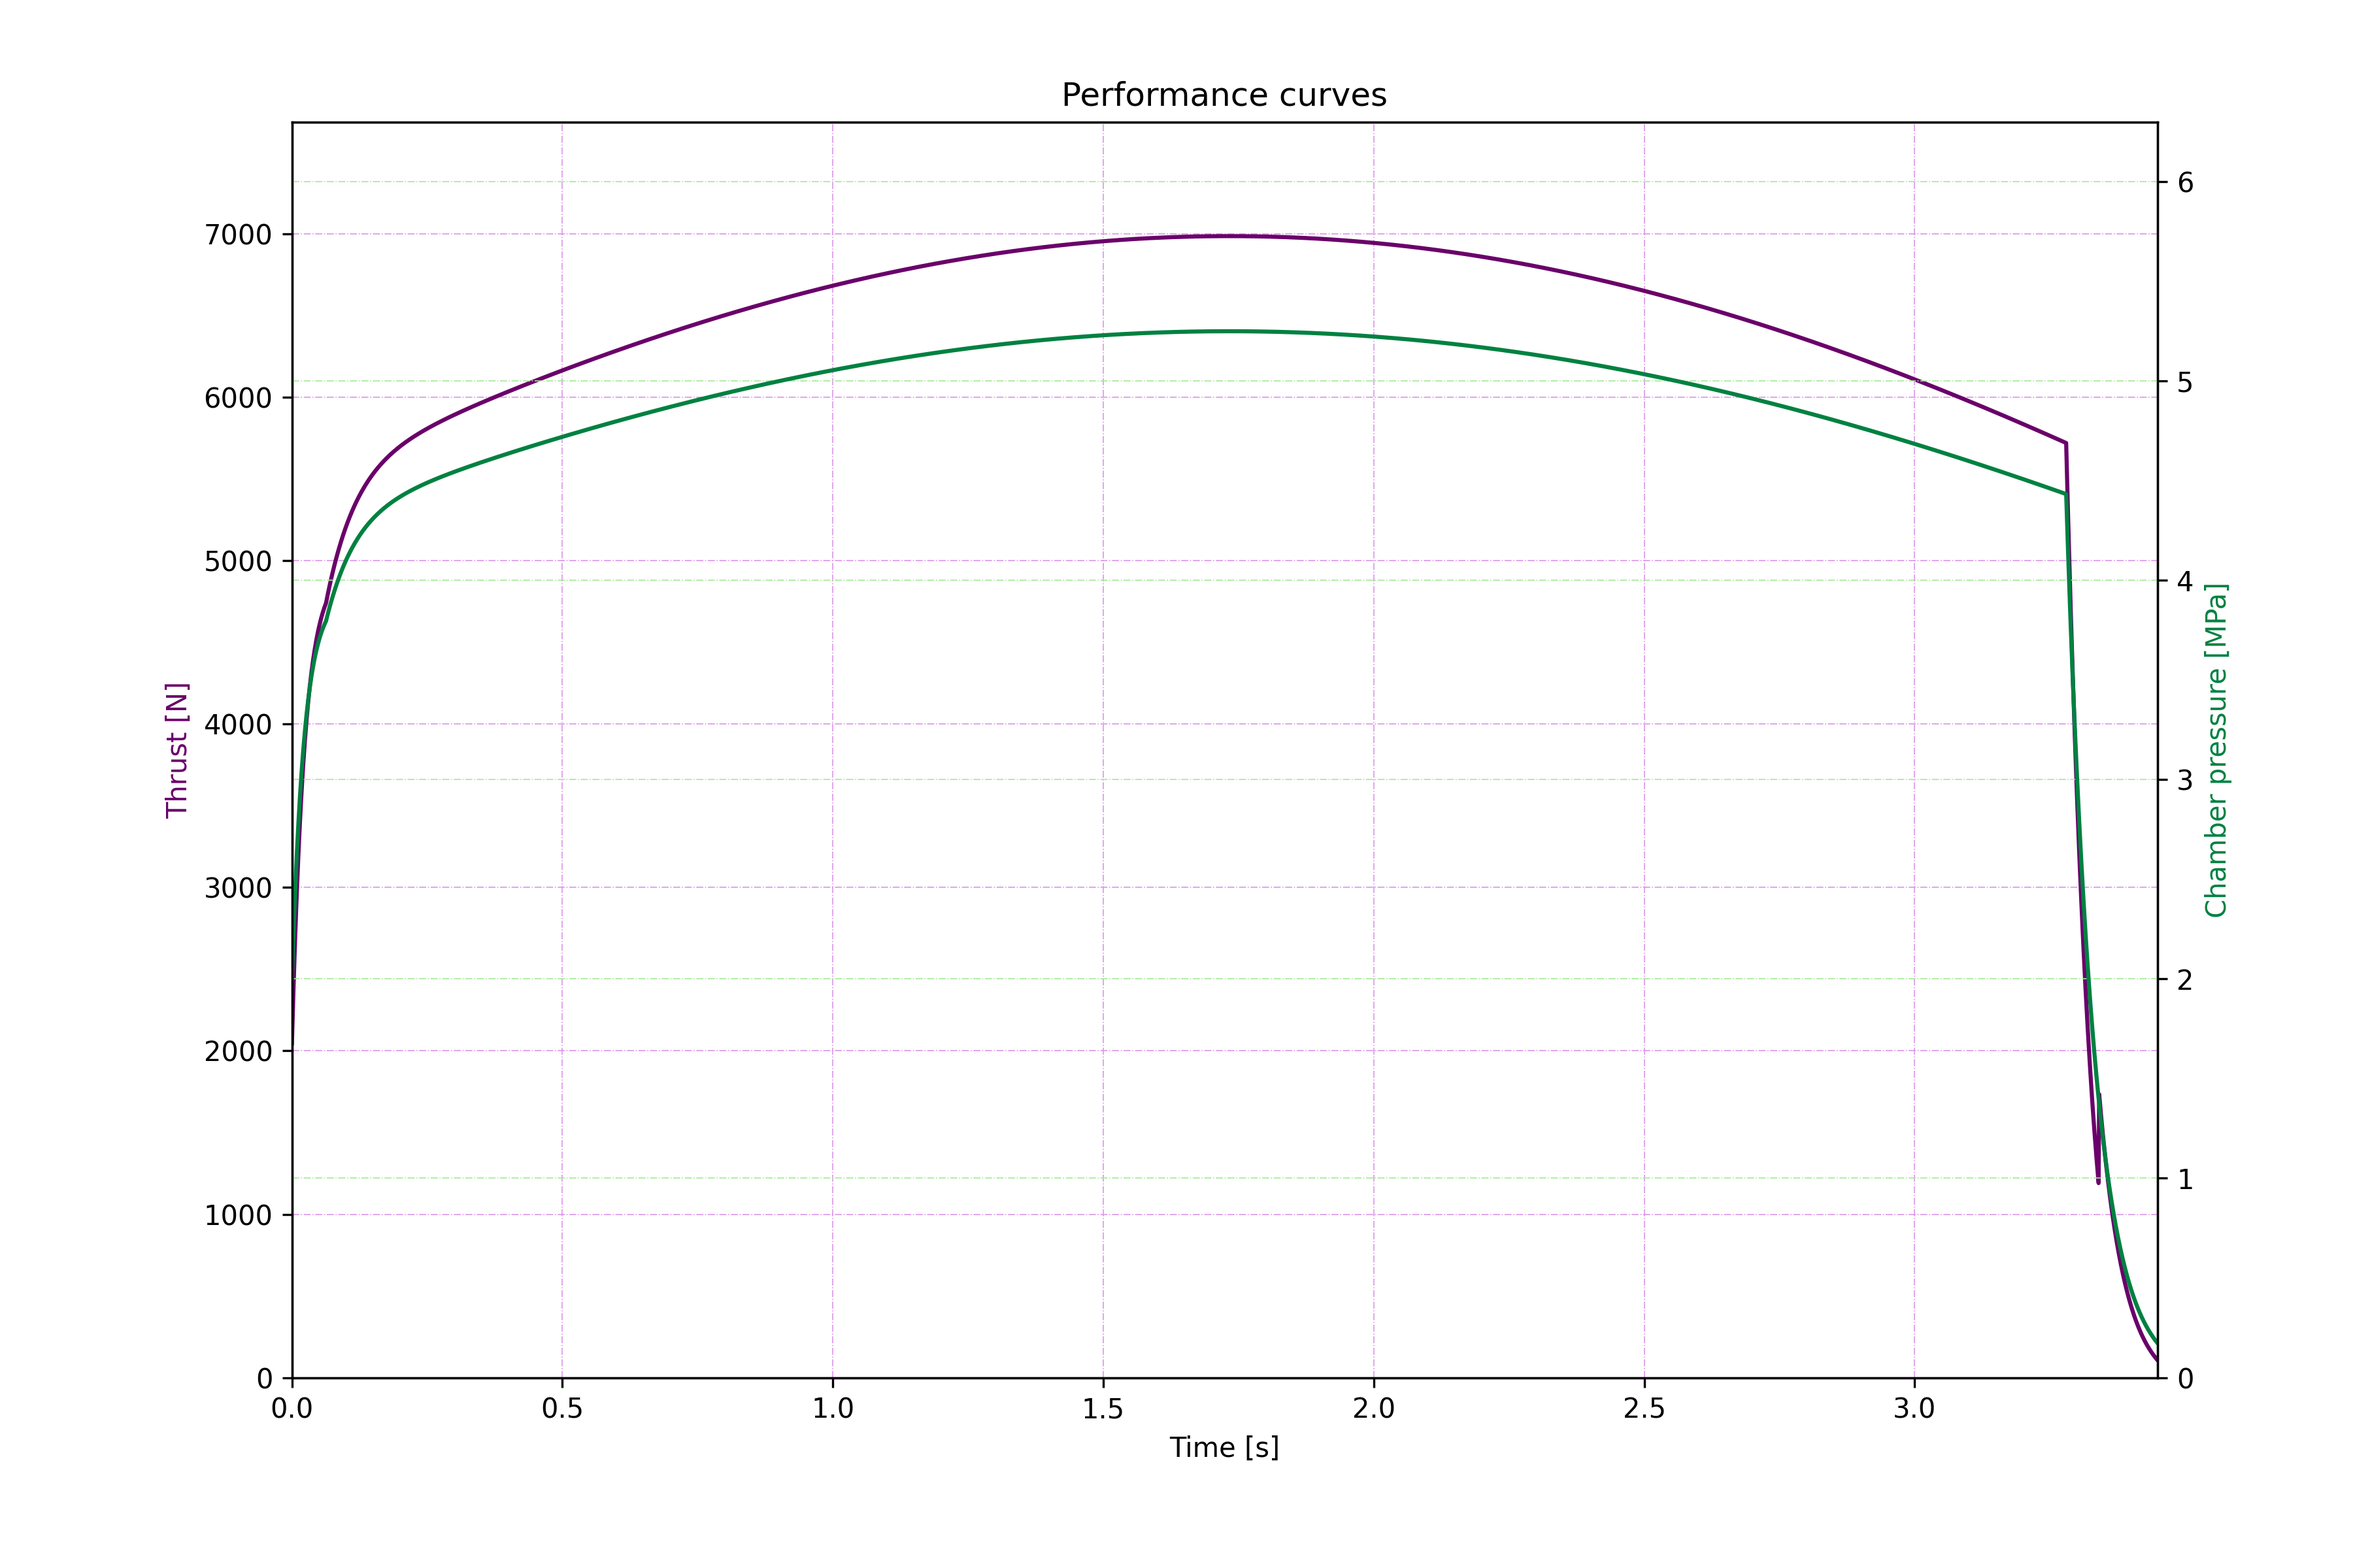
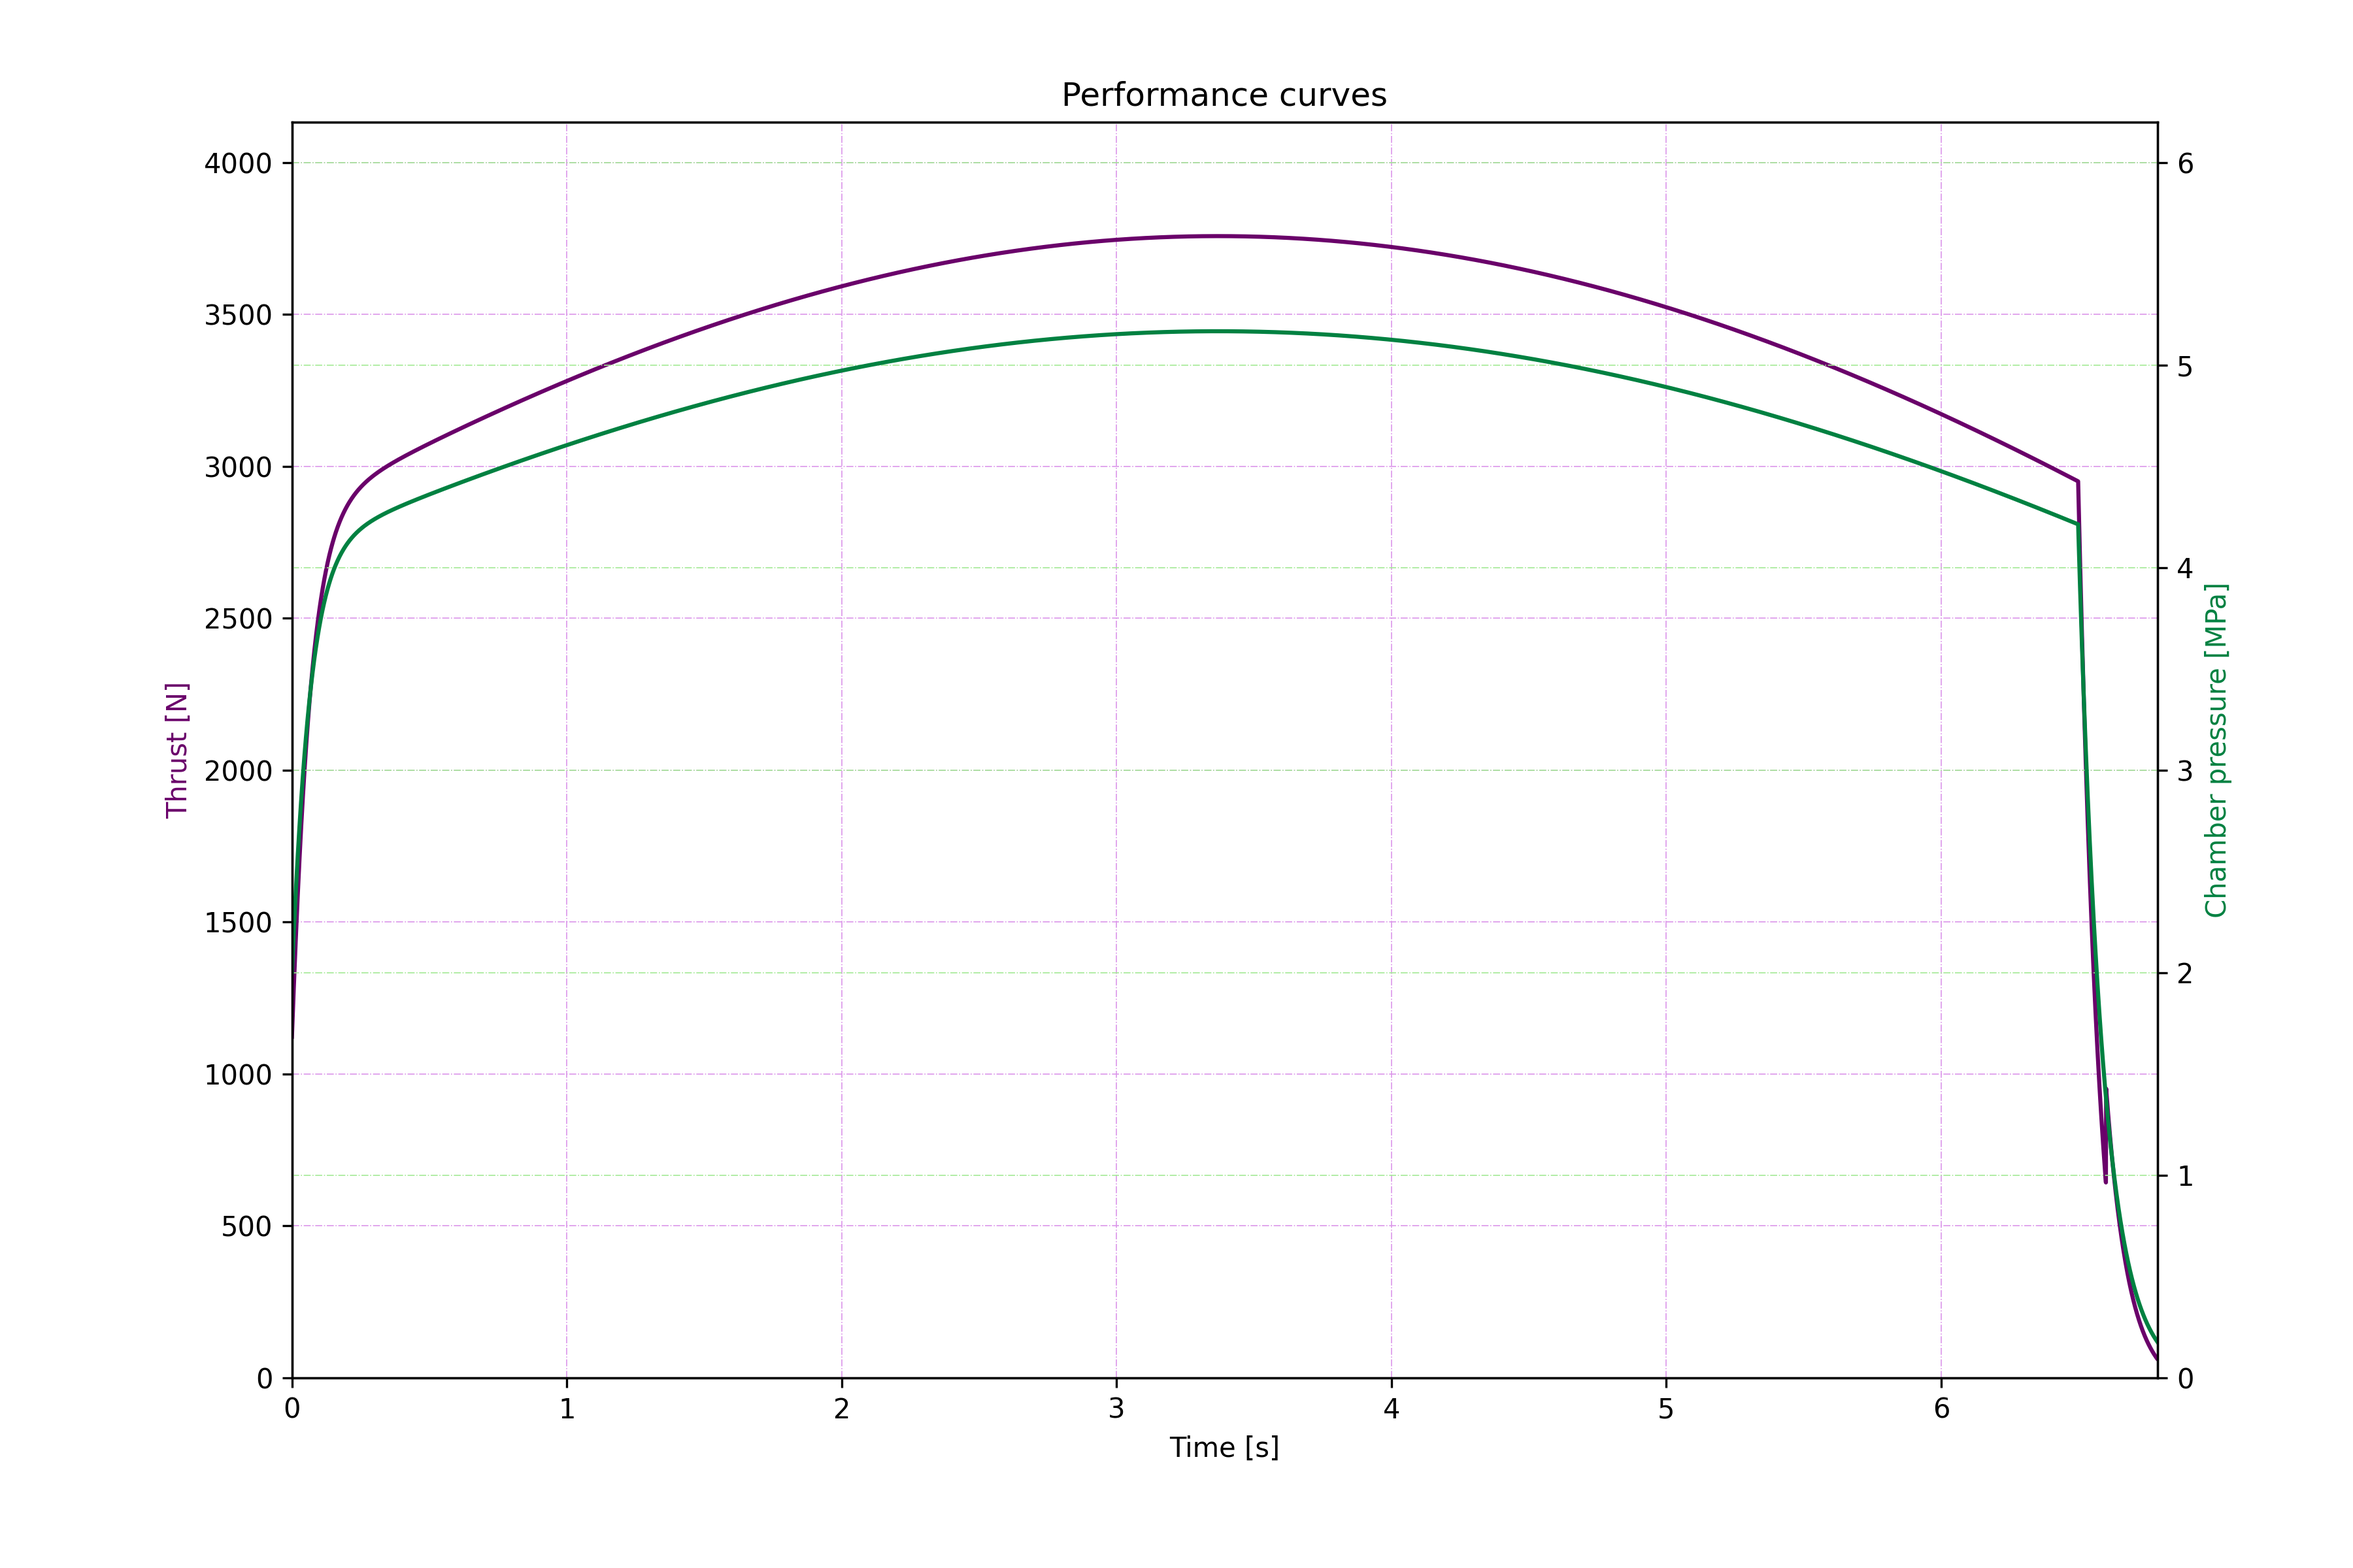
Version Alpha

diff --git a/SRM Solver.py b/SRM Solver.py
@@ -88,13 +88,13 @@ N = 7
 # Grain external diameter [m]
 D_grain = 110e-3
 # Grains 1 to 'N' core diameter [m]
-D_core = np.array([50, 50, 50, 50, 50, 50, 50]) * 1e-3
+D_core = np.array([40, 40, 40, 40, 40, 40, 40]) * 1e-3
 # Grains 1 to 'N' length [m]
-L_grain = np.array([190, 190, 190, 190, 190, 190, 190]) * 1e-3
+L_grain = np.array([185, 185, 185, 185, 185, 185, 185]) * 1e-3
 
 # PROPELLANT CHARACTERISTICS INPUT
 # Propellant name
-propellant = 'knsb-nakka'
+propellant = 'kner'
 
 # EXTERNAL CONDITIONS
 # External temperature [K]
@@ -106,7 +106,7 @@ P_igniter = 2e6
 
 # NOZZLE DIMENSIONS
 # Throat diameter [m]
-D_throat = 35e-3
+D_throat = 26e-3
 # Nozzle material yield strength [Pa]
 Y_nozzle = 215e6
 # Nozzle divergent and convergent angle [degrees]
